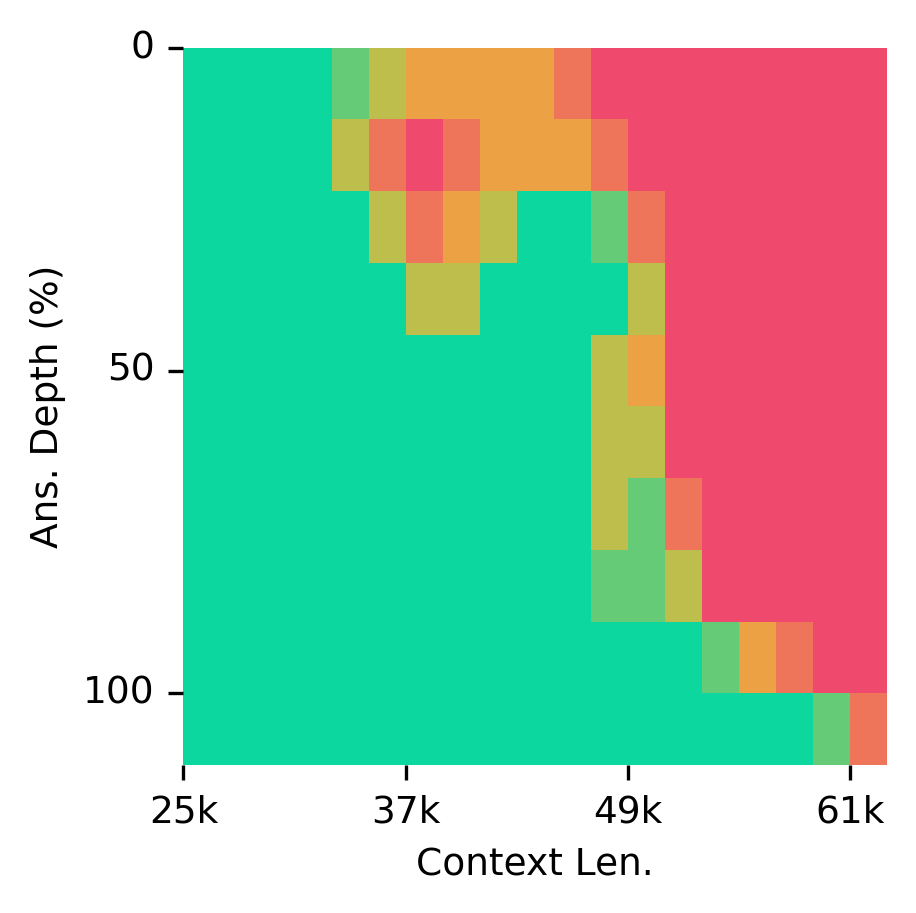
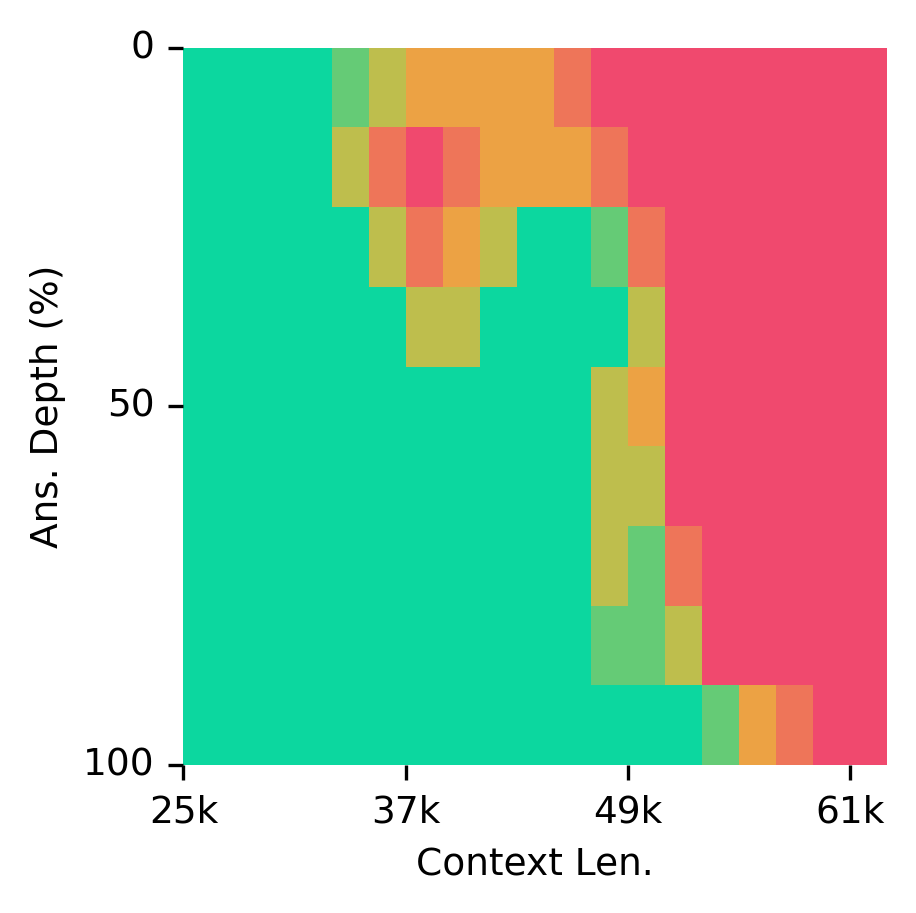
remove 100% depth from visualization

diff --git a/visualization.py b/visualization.py
@@ -7,9 +7,12 @@ from matplotlib.colors import LinearSegmentedColormap
 # Load the data
 df = pd.read_csv('data/results_tokenized_65538_rwkv7_1b5_128k.csv')
 
+# Filter out Document Depth = 100
+df_filtered = df[df['Document Depth'] != 100]
+
 # Create a pivot table for the heatmap
 pivot_table = pd.pivot_table(
-    df, values='Score', index=['Document Depth', 'Context Length'], 
+    df_filtered, values='Score', index=['Document Depth', 'Context Length'], 
     aggfunc='mean'
 ).reset_index()
 pivot_table = pivot_table.pivot(
@@ -44,23 +47,11 @@ plt.xticks(
 )
 
 # Format y-axis (document depth)
-depths = sorted(df['Document Depth'].unique())
+depths_filtered = sorted(df_filtered['Document Depth'].unique())
 
-# Get min and max depth values
-min_depth = min(depths)
-max_depth = max(depths)
-
-# Calculate middle value (50% of the range)
-mid_depth = min_depth + (max_depth - min_depth) / 2
-
-# Define the values to show on the axis (0%, 50%, 100% of the range)
-y_values = [min_depth, mid_depth, max_depth]
-
-# Calculate the positions
-positions = [0, (len(depths) - 1) / 2, len(depths) - 1]
-
-# Generate labels based on the actual values
-labels = [str(int(val)) for val in y_values]
+# Set positions and labels for y-ticks
+positions = [0, len(depths_filtered)/2, len(depths_filtered)]
+labels = ["0", "50", "100"]
 
 plt.yticks(
     positions,
